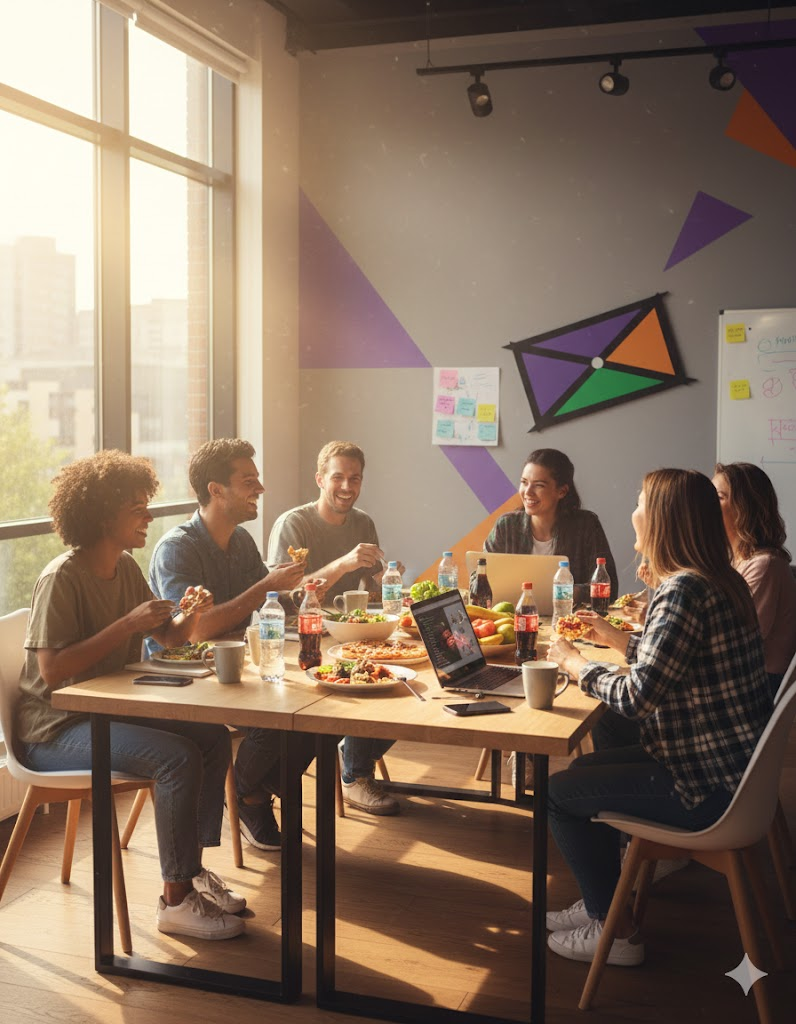
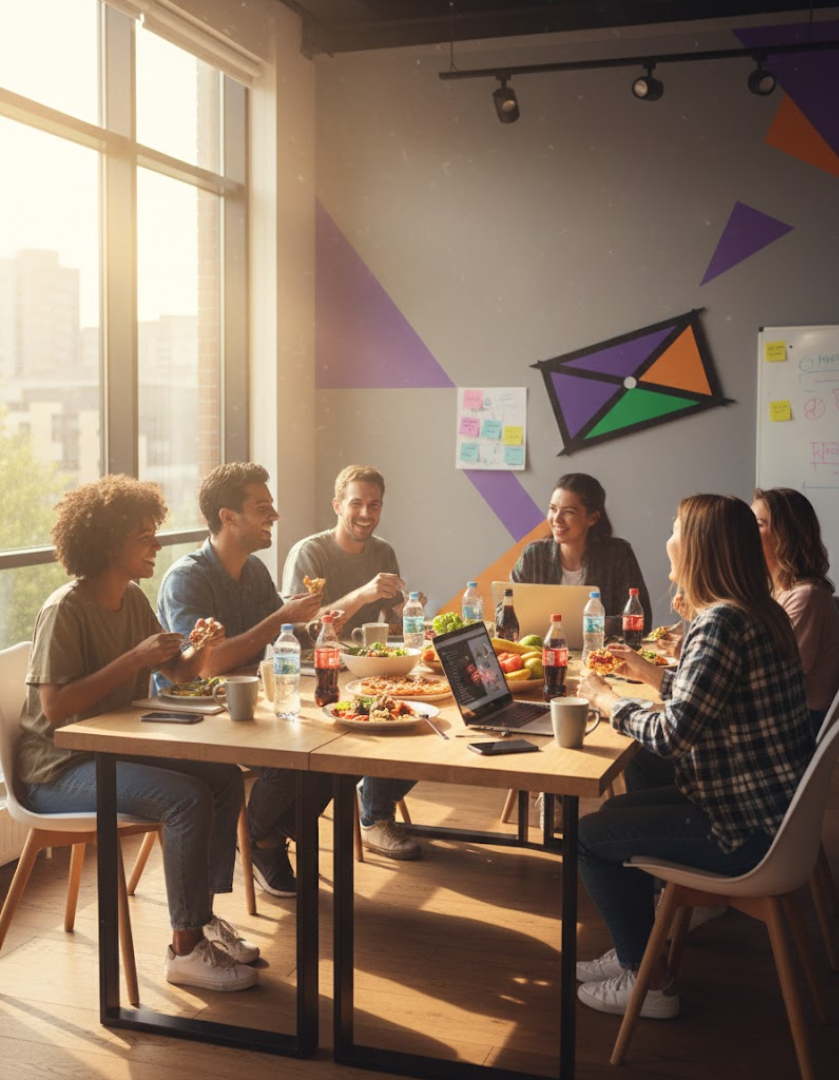
adicionando imagens

diff --git a/src/index.html b/src/index.html
@@ -492,6 +492,29 @@
         border-top: 1px solid var(--border-color);
         background-color: var(--bg-dark-card);
       }
+      /* Estilização para Justificar o texto */
+      .text-formatted p {
+        /* Garante que o texto se alinhe à esquerda, que é a melhor prática para web */
+        text-align: left !important; 
+      }
+      
+      /* Estilo da Imagem e container na seção Quem Somos */
+      .about-image-container {
+        border: 2px solid var(--primary-color);
+        border-radius: 1rem;
+        overflow: hidden;
+        /* Sombra ajustada para ser mais forte e elegante */
+        box-shadow: 0 5px 30px rgba(var(--primary-color-rgb), 0.7); 
+      }
+      .about-image {
+        width: 100%;
+        height: auto;
+        display: block;
+        /* Estica um pouco mais verticalmente */
+        aspect-ratio: 4 / 5; 
+        object-fit: cover;
+      }
+
 
       /* Footer */
       footer.bg-dark {
@@ -661,7 +684,8 @@
       <section id="quem-somos" class="about-section">
         <div class="container py-md-5">
             <div class="row justify-content-center align-items-center g-5">
-                <div class="col-lg-6">
+                <!-- TEXTO AGORA OCUPANDO col-lg-6 -->
+                <div class="col-lg-6 text-formatted"> 
                     <span class="font-tech-display text-accent">Nossa História</span>
                     <h2 class="display-5 fw-bolder text-light mb-4 mt-2">
                         KODEO: Sua Especialista em Conteúdo que Gera Resultados.
@@ -685,9 +709,16 @@
                       Ver Nosso Método
                     </a>
                 </div>
-                <div class="col-lg-4 text-center d-none d-lg-block">
-                    <!-- Ilustração conceitual de Estratégia e Marketing -->
-                    <i class="fas fa-magic fa-10x" style="color: var(--primary-color); opacity: 0.7;"></i>
+                <!-- IMAGEM AGORA OCUPANDO col-lg-6 -->
+                <div class="col-lg-6 text-center d-none d-lg-block">
+                    <div class="about-image-container">
+                        <!-- IMAGEM REAL DO GITHUB INSERIDA AQUI -->
+                        <img 
+                            src="../src/upload/imagem_kode_escritorio_pessoa.jpg" 
+                            alt="Equipe KODEO Social Media reunida em escritório moderno planejando estratégia de posts para Instagram, Facebook e LinkedIn."
+                            class="about-image"
+                        />
+                    </div>
                 </div>
             </div>
         </div>
